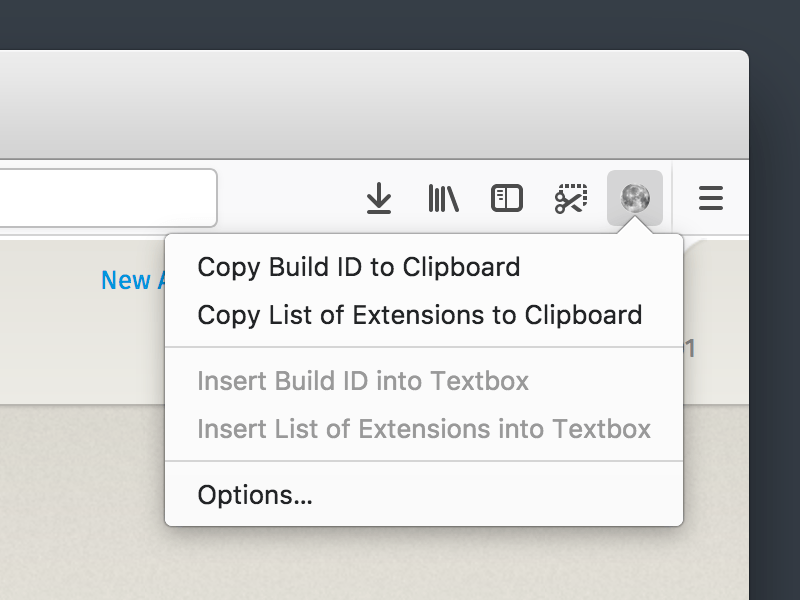
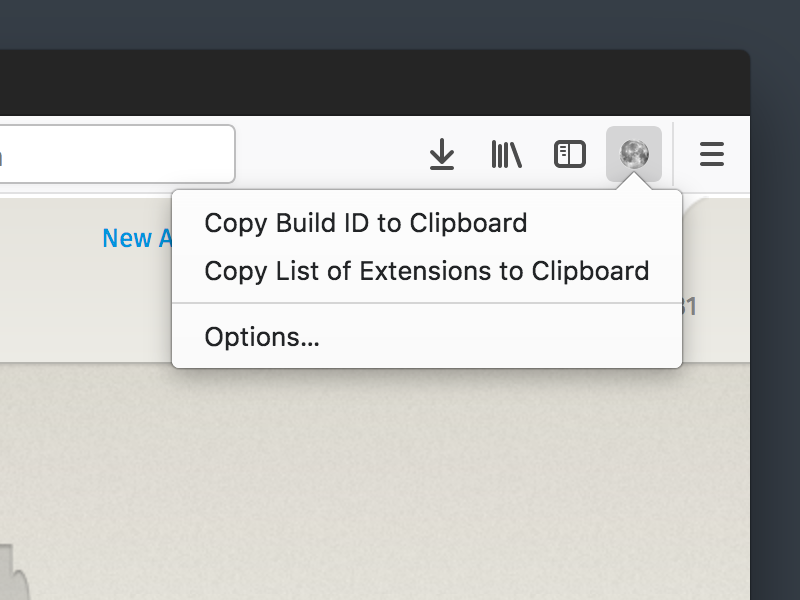
Resolve feedback in mozilla/nightlytt#245

diff --git a/extension/shared.js b/extension/shared.js
@@ -88,6 +88,7 @@ const get_build_info = async () => {
 /**
  * Get a list of currently installed extensions.
  * @return {String} A summarized extension list.
+ * @todo Make the separator configurable rather than hardcoding a line break (#232)
  */
 const get_extension_list = async () => {
   return (await browser.management.getAll())
@@ -102,23 +103,11 @@ const get_extension_list = async () => {
  * @param {String} command - A distinguishable command name.
  */
 const handle_command = async command => {
-  if (command === 'copy_build_info') {
-    copy_to_clipboard(await get_build_info());
-  }
-
-  if (command === 'insert_build_info') {
-    await insert_to_textbox(await get_build_info());
-  }
-
-  if (command === 'copy_extension_list') {
-    copy_to_clipboard(await get_extension_list());
-  }
-
-  if (command === 'insert_extension_list') {
-    await insert_to_textbox(await get_extension_list());
-  }
-
-  if (command === 'open_options_page') {
-    await browser.runtime.openOptionsPage();
-  }
+  await ({
+    'copy_build_info': async () => copy_to_clipboard(await get_build_info()),
+    'insert_build_info': async () => insert_to_textbox(await get_build_info()),
+    'copy_extension_list': async () => copy_to_clipboard(await get_extension_list()),
+    'insert_extension_list': async () => await insert_to_textbox(await get_extension_list()),
+    'open_options_page': async () => await browser.runtime.openOptionsPage(),
+  }[command])();
 };

diff --git a/extension/options.js b/extension/options.js
@@ -33,7 +33,7 @@ const init_view = async () => {
     const $cell_desc = $row.insertCell();
     const $cell_value = $row.insertCell();
 
-    $row.addEventListener('click', event => insert_variable(key));
+    $row.addEventListener('click', event => insert_or_remove_variable(key));
 
     $cell_key.textContent = '${' + key + '}';
     $cell_desc.textContent = browser.i18n.getMessage(`variable_${key}`);
@@ -42,11 +42,21 @@ const init_view = async () => {
 };
 
 /**
- * Insert a variable into the custom template when a table row is clicked.
+ * Insert a variable into the custom template when a table row is clicked. If the template already contains the
+ * variable, remove it instead.
  * @param {String} key - A variable name.
  */
-const insert_variable = key => {
-  $input.value += ' ${' + key + '}';
+const insert_or_remove_variable = key => {
+  const str = '${' + key + '}';
+
+  if ($input.value.includes(str)) {
+    $input.value = $input.value.replace(str, '');
+  } else {
+    $input.value += ' ' + str;
+  }
+
+  $input.value = $input.value.trim().replace(/\s{2,}/g, ' ');
+
   save_pref();
 };
 

diff --git a/extension/menu.js b/extension/menu.js
@@ -2,24 +2,8 @@
  * License, v. 2.0. If a copy of the MPL was not distributed with this
  * file, You can obtain one at http://mozilla.org/MPL/2.0/. */
 
-/**
- * Enable the "insert" menu items if any textbox is getting focused on the page.
- */
-const update_inserting_options = async () => {
-  await send_message('check_if_textbox_is_focused');
-
-  browser.runtime.onMessage.addListener((message, sender, sendResponse) => {
-    if (message.command === 'check_if_textbox_is_focused' && message.value) {
-      document.querySelectorAll('[data-command^="insert_"]').forEach($item => {
-        $item.classList.remove('disabled');
-      });
-    }
-  });
-};
-
 window.addEventListener('DOMContentLoaded', async event => {
   localize_page();
-  await update_inserting_options();
 });
 
 document.addEventListener('click', async event => {

diff --git a/extension/menu.html b/extension/menu.html
@@ -12,9 +12,6 @@
         <div class="panel-list-item" data-i18n="copy_build_info" data-command="copy_build_info"></div>
         <div class="panel-list-item" data-i18n="copy_extension_list" data-command="copy_extension_list"></div>
         <div class="panel-section-separator"></div>
-        <div class="panel-list-item disabled" data-i18n="insert_build_info" data-command="insert_build_info"></div>
-        <div class="panel-list-item disabled" data-i18n="insert_extension_list" data-command="insert_extension_list"></div>
-        <div class="panel-section-separator"></div>
         <div class="panel-list-item" data-i18n="open_options_page" data-command="open_options_page"></div>
       </div>
     </div>

diff --git a/extension/content.js b/extension/content.js
@@ -10,10 +10,6 @@ const handle_command = message => {
   const $active = document.activeElement;
   const is_textbox = 'placeholder' in $active && !$active.readOnly;
 
-  if (message.command === 'check_if_textbox_is_focused') {
-    browser.runtime.sendMessage({ command: 'check_if_textbox_is_focused', value: is_textbox });
-  }
-
   if (message.command === 'insert_to_textbox' && is_textbox) {
     $active.value = message.value;
   }

diff --git a/README.md b/README.md
@@ -6,13 +6,9 @@ Nightly Tester Tools (NTT) is an add-on for aiding testers of Nightly builds of 
 
 ## Features
 
-* Copy Build ID to Clipboard
-* Copy List of Extensions to Clipboard
-* Insert Build ID into Textbox
-* Insert List of Extensions into Textbox
-* Customize Title Bar
-
-As the screenshot above shows, click the toolbar button to access the add-on’s main features. The “insert” items can also be found in the context menu of textboxes on the web.
+* Copy the build ID or list of extensions to the clipboard using the toolbar button
+* Insert the build ID or list of extensions into a textbox using the context menu
+* Option to customize the Title Bar
 
 ## Limitations
 
@@ -22,22 +18,23 @@ There are a couple of known issues due to the limited [WebExtensions APIs](https
 * The extension list does not include system add-ons
 * Some variables are not available for the custom title template
 
-The following features found in the original XUL-based extension are not yet implemented:
+The following features found in the original XUL-based extension are not yet implemented, and some of them may not be implemented again:
 
-* Copy about:support to Pastebin
-* Open Profile Folder
-* Open Pushlog
-* Screenshots utility (Use Firefox Screenshots)
+* Copy `about:support` to Pastebin
+* Open the profile folder (Use `about:support` or `about:profile` page instead to open it)
+* Open the pushlog
+* Screenshot utility (Use [Firefox Screenshots](https://support.mozilla.org/kb/firefox-screenshots) instead)
 * Crash options
-* Extension compatibility fixing
+* Extension compatibility fixer
+* Menu items under Tools
 
 ## Compatibility
 
-The current WebExtension version is compatible with Firefox and SeaMonkey. Use legacy [version 3.10](https://addons.mozilla.org/firefox/addon/nightly-tester-tools/versions/3.10) for Thunderbird.
+The current WebExtension version is only compatible with Firefox. Use legacy [version 3.10](https://addons.mozilla.org/firefox/addon/nightly-tester-tools/versions/3.10) for Thunderbird and SeaMonkey.
 
 ## Install
 
-You can install the latest stable NTT from [addons.mozilla.org](https://addons.mozilla.org/en-US/firefox/addon/nightly-tester-tools/).
+You can install the latest stable NTT from [addons.mozilla.org](https://addons.mozilla.org/firefox/addon/nightly-tester-tools/).
 
 To install for development, clone the repo:
 
@@ -69,3 +66,5 @@ You can also [temporarily install the extension](https://developer.mozilla.org/A
 All bugs and feature requests are filed in the Nightly Tester Tools project at GitHub. You can [view the list of open issues](https://github.com/mozilla/nightlytt/issues), or you can [file a new issue](https://github.com/mozilla/nightlytt/issues/new). Check out [the wiki](https://wiki.mozilla.org/Auto-tools/Projects/NightlyTesterTools) for a list of current and proposed features and feel free to file bugs and submit patches.
 
 This project uses [`.editorconfig`](http://editorconfig.org/#overview), which sets defaults for the formatting of the code. So enjoy the use of [compatible editor](http://editorconfig.org/#download). Just download and install the corresponding plugin.
+
+Also, it's encouraged to use the `web-ext lint` command to [check the code](https://developer.mozilla.org/Add-ons/WebExtensions/Getting_started_with_web-ext#Checking_for_code_lint).

diff --git a/History.md b/History.md
@@ -1,6 +1,6 @@
-4.0 / 2017-08-16
+4.0 / 2017-09-01
 ==================
-  * Rewrite as WebExtension (#235)
+  * Completely rewrite as a WebExtension for Firefox 57+ since the legacy XUL version is no longer supported (#235)
 
 3.10 / 2017-05-16
 ==================
